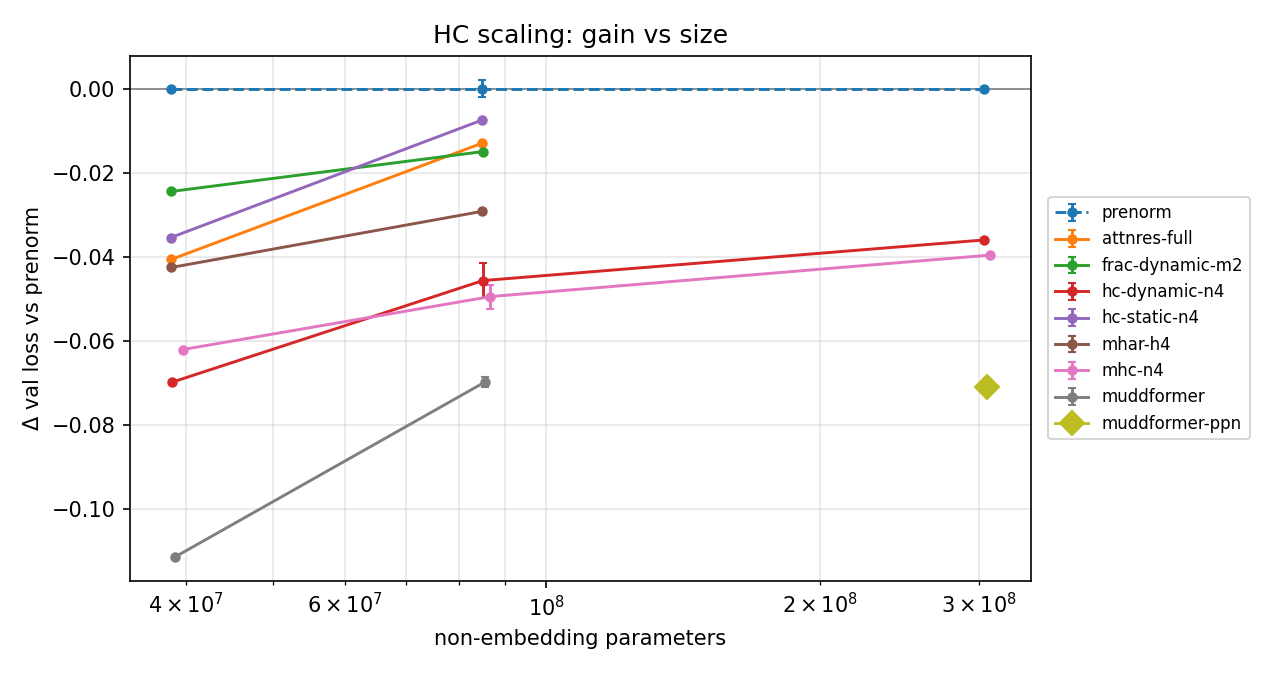
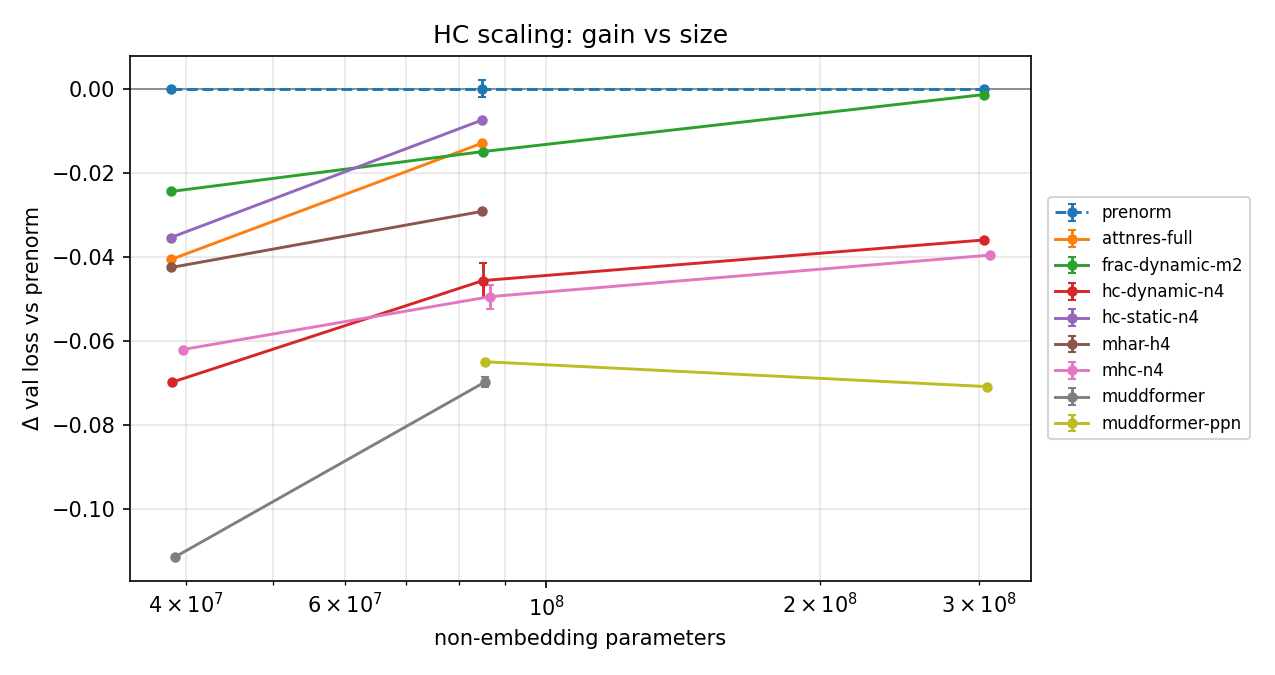
results: MUDD-ppn at M, Frac at L (interim)

diff --git a/results/scaling_gpu/scaling.md b/results/scaling_gpu/scaling.md
@@ -4,11 +4,11 @@ Row `prenorm` = its val loss; other rows = Δ vs prenorm at the same width.
 |---|---|---|---|
 | prenorm | 3.4439 | 3.1993 ± 0.0021 | 2.8405 |
 | attnres-full | -0.0407 | -0.0130 | — |
-| frac-dynamic-m2 | -0.0245 | -0.0150 | — |
+| frac-dynamic-m2 | -0.0245 | -0.0150 | -0.0014 |
 | hc-dynamic-n4 | -0.0699 | -0.0457 ± 0.0042 (n=3) | -0.0360 |
 | hc-static-n4 | -0.0355 | -0.0075 | — |
 | mhar-h4 | -0.0426 | -0.0292 | — |
 | mhc-n4 | -0.0621 | -0.0495 ± 0.0029 (n=3) | -0.0396 |
 | muddformer | -0.1115 | -0.0698 ± 0.0011 (n=2) | — |
-| muddformer-ppn | — | — | -0.0710 |
+| muddformer-ppn | — | -0.0650 | -0.0710 |
 | *non-emb params* | 38.5M | 85.0M | 303.6M |
